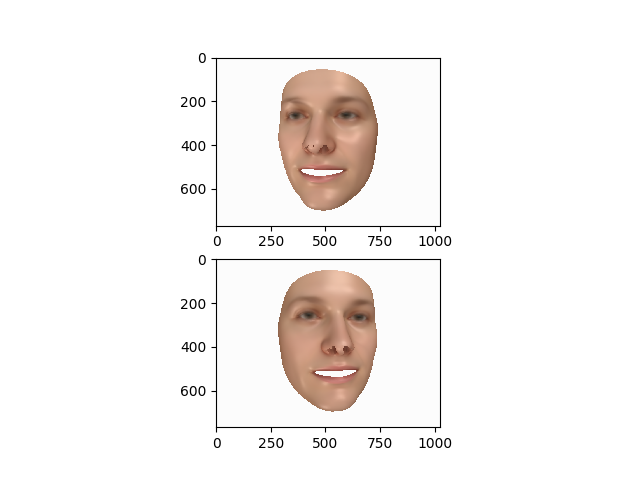
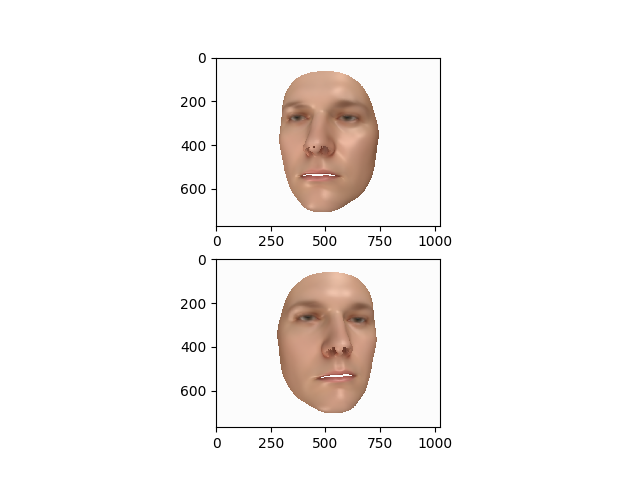
minor fixes

diff --git a/utils.py b/utils.py
@@ -48,25 +48,25 @@ def reconstruct_face(identity,
     G = geom + expr
     return G
 
-# def render_mesh(mesh, h=256, w=256):
-#     """https://pyrender.readthedocs.io/en/latest/examples/quickstart.html"""
-#     mesh = pyrender.Mesh.from_trimesh(mesh)
-#     scene = Scene()
-#     scene.add(mesh)
+def render_mesh(mesh, h=256, w=256):
+    """https://pyrender.readthedocs.io/en/latest/examples/quickstart.html"""
+    mesh = pyrender.Mesh.from_trimesh(mesh.trimesh())
+    scene = Scene()
+    scene.add(mesh)
 
-#     # z-axis away from the scene, x-axis right, y-axis up
-#     pose = np.eye(4)
-#     pose[2, 3] = 250
+    # z-axis away from the scene, x-axis right, y-axis up
+    pose = np.eye(4)
+    pose[2, 3] = 250
 
-#     # add camera
-#     camera = PerspectiveCamera(yfov=np.pi / 3.0, aspectRatio=1.0)
-#     scene.add(camera, pose=pose)
+    # add camera
+    camera = PerspectiveCamera(yfov=np.pi / 3.0, aspectRatio=1.0)
+    scene.add(camera, pose=pose)
 
-#     # add light
-#     # light = DirectionalLight(color=np.ones(3), intensity=5.0)
-#     light = PointLight(color=[1.0, 1.0, 1.0], intensity=2.0)
-#     scene.add(light, pose=pose)
+    # add light
+    # light = DirectionalLight(color=np.ones(3), intensity=5.0)
+    light = PointLight(color=[1.0, 1.0, 1.0], intensity=2.0)
+    scene.add(light, pose=pose)
 
-#     r = OffscreenRenderer(h, w)
-#     color, depth = r.render(scene)
-#     return color
+    r = OffscreenRenderer(h, w)
+    color, depth = r.render(scene)
+    return color

diff --git a/morphable_model.py b/morphable_model.py
@@ -4,20 +4,23 @@ import numpy as np
 import matplotlib.pyplot as plt
 from fio import load_obj, save_obj
 from data_def import PCAModel, Mesh
-from utils import load_data, mesh_to_png, reconstruct_face
+from utils import load_data, mesh_to_png, render_mesh, reconstruct_face
 
 def main(args):
     flags = ('cols', 'rows')
     (cols, rows) = itemgetter(*flags)(vars(args))
     (texture, identity, expression, triangles) = load_data()
 
-    fig = plt.figure()
+    fig = plt.figure(figsize=(10, 10))
     for i in range(rows * cols):
-        G = reconstruct_face(identity, expression)
+        alpha = np.random.uniform(-1.0, 1.0)
+        delta = np.random.uniform(-1.0, 1.0)
+        G = reconstruct_face(identity, expression, alpha, delta)
         # For vertex colour you can use mean face colour.
         mesh = Mesh(G, texture.mean, triangles)
         # save_obj(f'meshes/face-{i}.mesh', mesh)
         img = mesh_to_png(mesh)
+        # img = render_mesh(mesh)
         plt.subplot(rows, cols, i+1)
         plt.imshow(img)
     plt.savefig('morphable_model.png')

diff --git a/pinhole_camera.py b/pinhole_camera.py
@@ -57,7 +57,7 @@ def perspective_matrix(t, b, l, r, n, f):
 def project_points(S, z, near):
     """inspiration: https://github.com/d4vidbiertmpl/Computer-Vision-2/blob/master/Assignment_3/solution.ipynb"""
     translation = (0, 0, z)
-    R[3, 0:2] = translation
+    R[3, 0:3] = translation
     P = perspective_matrix(1, -1, 1, -1, near, 100)
     p = P @ R @ S
     # make it homogeneous
